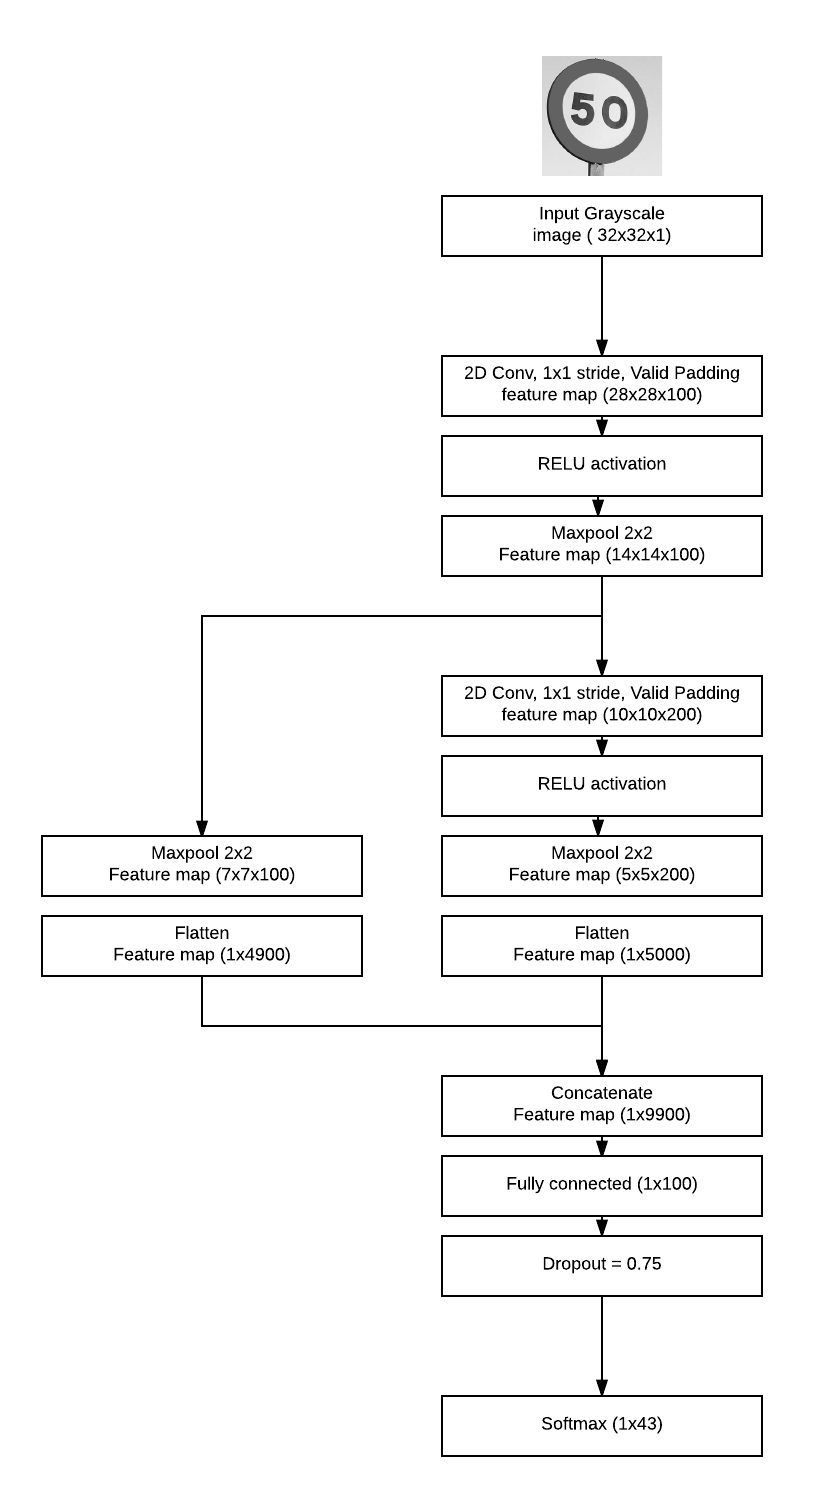
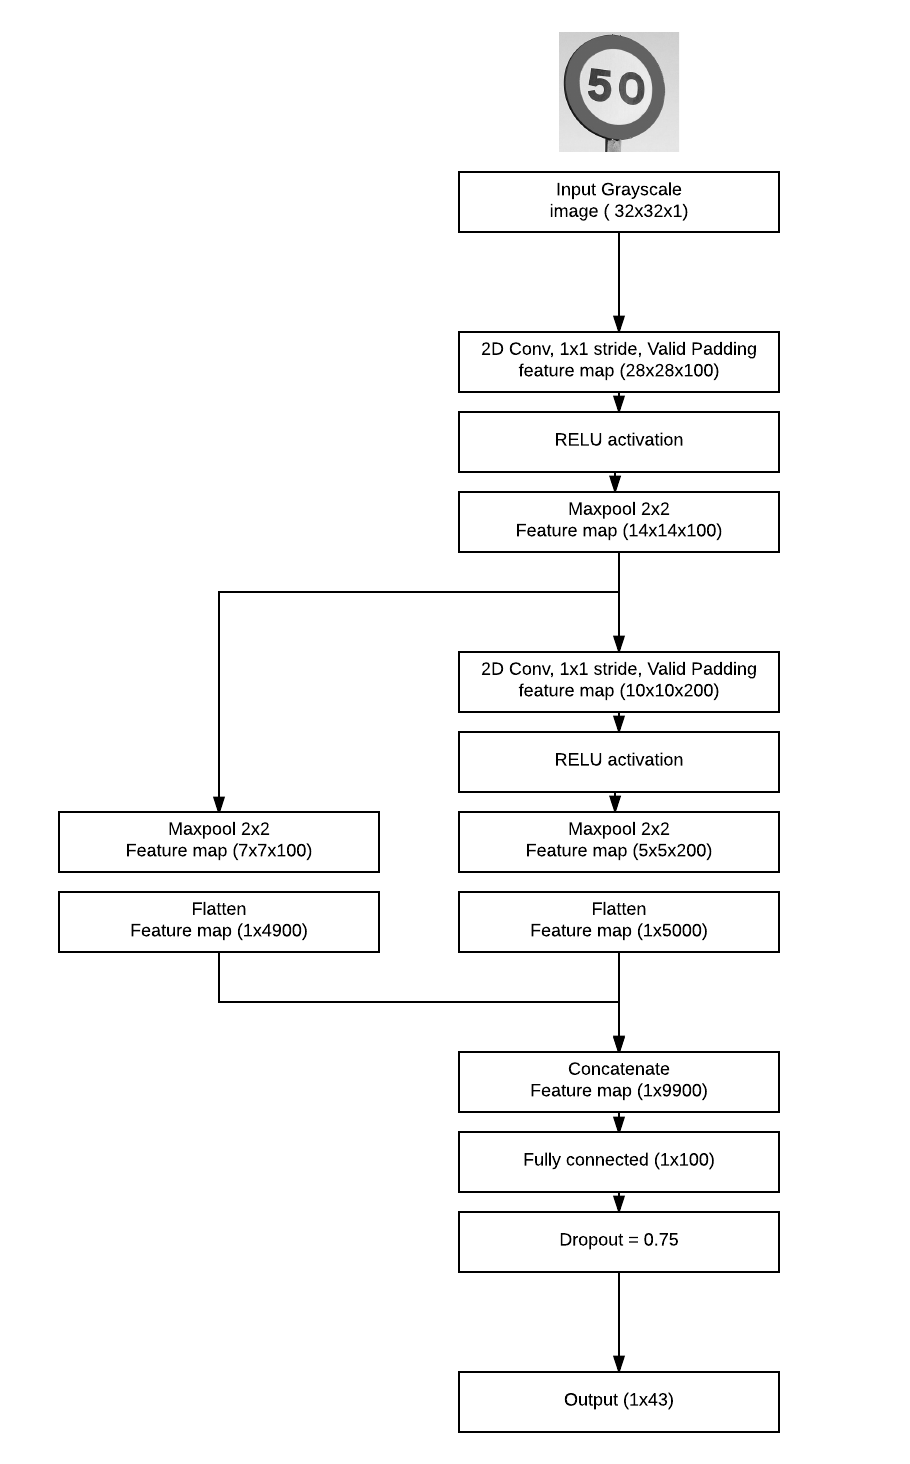
Checkpoint 20032017 1125

diff --git a/CarND-Traffic-Sign-Classifier-P2/README.md b/CarND-Traffic-Sign-Classifier-P2/README.md
@@ -208,8 +208,8 @@ My final model consisted of the following layers:
 | Flatten 1		| Input = 7x7x100, Output = 4900                | Max pooling 3     | Concatenate 1               |
 | Flatten 2		| Input = 5x5x200, Output = 5000                | Max pooling 2     | Concatenate 1               |
 | Concatenate 1 | Input1 = 4900, Input1 = 5000, Output = 9900   | Max pooling 2 and 3 |Fully connected            |
-| Fully connected | Fully Connected. Input = 9900, Output = 100 | Concatenate 1     | Softmax                     |
-| Softmax		| Fully Connected. Input = 100, Output = 43     | Fully connected   | Probabilities               |
+| Fully connected | Fully Connected. Input = 9900, Output = 100 | Concatenate 1     | Output                     |
+| Output		| Fully Connected. Input = 100, Output = 43     | Fully connected   | Logits               |
 
 ![alt text][image20]
 
